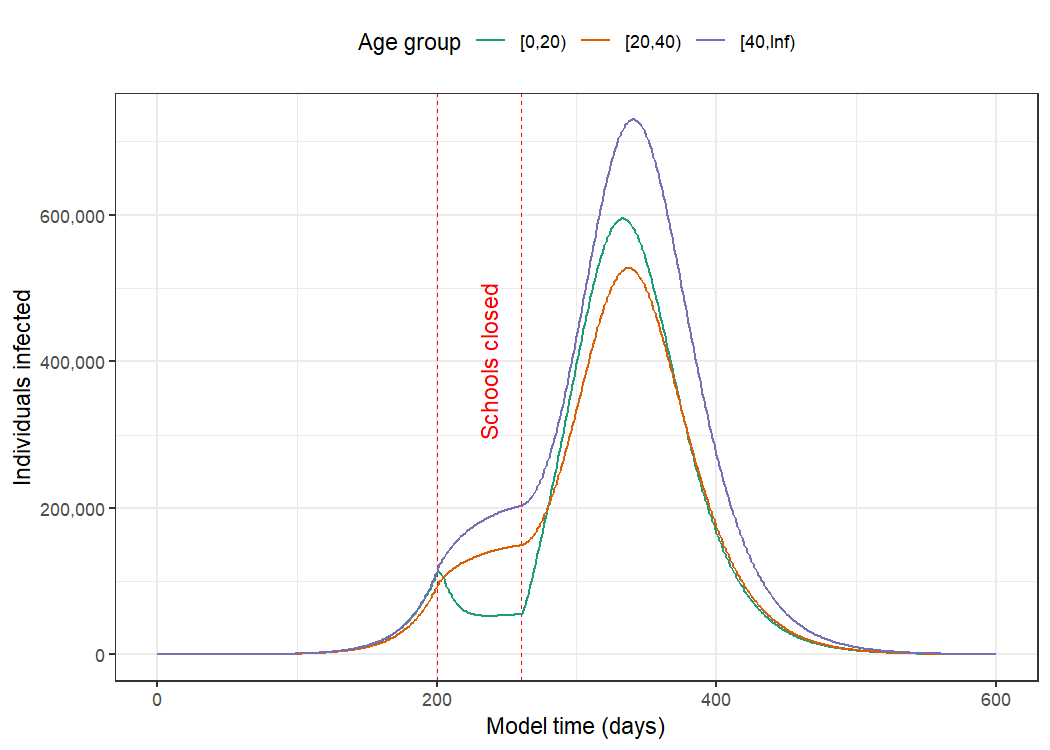
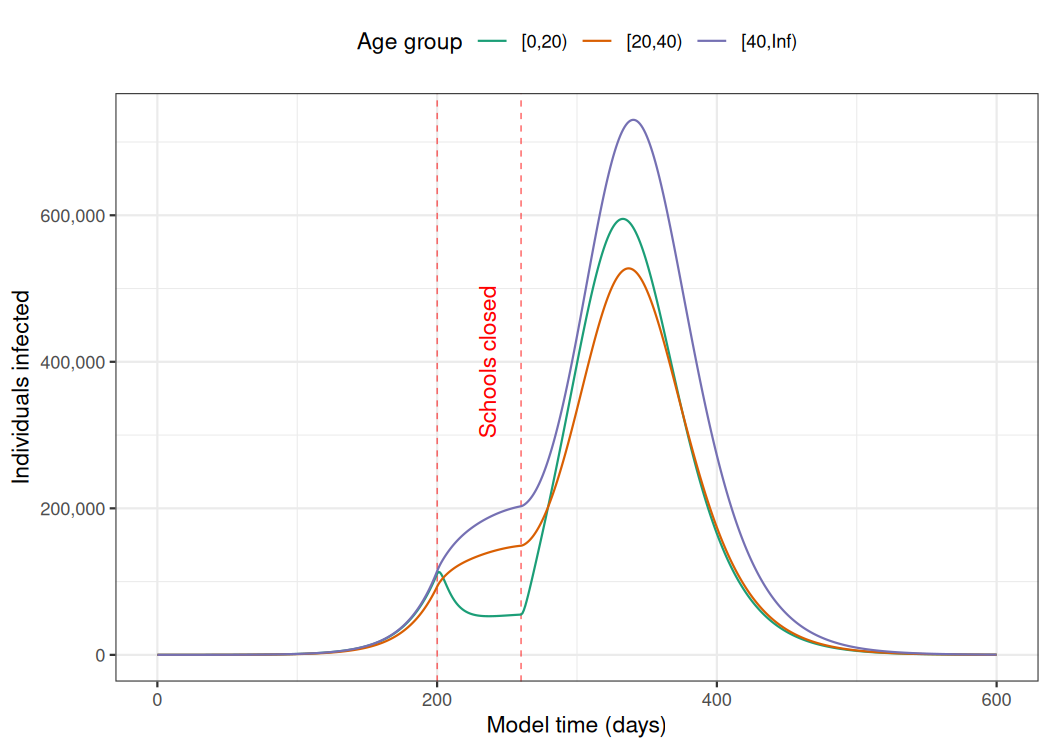
Automatic readme update

diff --git a/README.md b/README.md
@@ -1,35 +1,35 @@
 
-# {{ packagename }}: Composable epidemic scenario modelling <img src="man/figures/logo.svg" align="right" width="130"/>
+# epidemics: Composable epidemic scenario modelling <img src="man/figures/logo.svg" align="right" width="130"/>
 
 <!-- badges: start -->
 
 [![License:
 MIT](https://img.shields.io/badge/License-MIT-blue.svg)](https://opensource.org/license/mit/)
-[![R-CMD-check](https://github.com/%7B%7B%20gh_repo%20%7D%7D/actions/workflows/R-CMD-check.yaml/badge.svg)](https://github.com/%7B%7B%20gh_repo%20%7D%7D/actions/workflows/R-CMD-check.yaml)
+[![R-CMD-check](https://github.com/epiverse-trace/epidemics/actions/workflows/R-CMD-check.yaml/badge.svg)](https://github.com/epiverse-trace/epidemics/actions/workflows/R-CMD-check.yaml)
 [![Codecov test
-coverage](https://codecov.io/gh/%7B%7B%20gh_repo%20%7D%7D/branch/main/graph/badge.svg)](https://app.codecov.io/gh/%7B%7B%20gh_repo%20%7D%7D?branch=main)
+coverage](https://codecov.io/gh/epiverse-trace/epidemics/branch/main/graph/badge.svg)](https://app.codecov.io/gh/epiverse-trace/epidemics?branch=main)
 [![Project Status: WIP – Initial development is in progress, but there
 has not yet been a stable, usable release suitable for the
 public.](https://www.repostatus.org/badges/latest/wip.svg)](https://www.repostatus.org/#wip)
 [![CRAN
-status](https://www.r-pkg.org/badges/version/%7B%7B%20packagename%20%7D%7D)](https://CRAN.R-project.org/package=%7B%7B%20packagename%20%7D%7D)
+status](https://www.r-pkg.org/badges/version/epidemics)](https://CRAN.R-project.org/package=epidemics)
 <!-- badges: end -->
 
-*{{ packagename }}* is an R package that provides modular
-representations of populations and public health response measures,
-allowing them to be combined with epidemiological model structures
-curated from the published literature, to conveniently compose and
-compare epidemic scenario models.
+*epidemics* is an R package that provides modular representations of
+populations and public health response measures, allowing them to be
+combined with epidemiological model structures curated from the
+published literature, to conveniently compose and compare epidemic
+scenario models.
 
-The models in *{{ packagename }}* focus on directly transmitted
-infections, and implement methods outlined in Bjørnstad et al.
+The models in *epidemics* focus on directly transmitted infections, and
+implement methods outlined in Bjørnstad et al.
 ([2020a](#ref-bjornstad2020a)) and Bjørnstad et al.
-([2020b](#ref-bjornstad2020)). The models in *{{ packagename }}* can
-help provide rough estimates of the course of epidemics, and the
+([2020b](#ref-bjornstad2020)). The models in *epidemics* can help
+provide rough estimates of the course of epidemics, and the
 effectiveness of pharmaceutical and non-pharmaceutical interventions.
 
-*{{ packagename }}* relies on [Eigen](https://gitlab.com/libeigen/eigen)
-via [{RcppEigen}](https://cran.r-project.org/package=RcppEigen), and on
+*epidemics* relies on [Eigen](https://gitlab.com/libeigen/eigen) via
+[{RcppEigen}](https://cran.r-project.org/package=RcppEigen), and on
 [Boost
 Odeint](https://www.boost.org/doc/libs/1_82_0/libs/numeric/odeint/doc/html/index.html)
 via [{BH}](https://cran.r-project.org/package=BH), and is developed at
@@ -40,12 +40,12 @@ at the London School of Hygiene and Tropical Medicine as part of the
 
 ## Installation
 
-The current development version of *{{ packagename }}* can be installed
-from [GitHub](https://github.com/) using the *pak* package.
+The current development version of *epidemics* can be installed from
+[GitHub](https://github.com/) using the *pak* package.
 
 ``` r
 if(!require("pak")) install.packages("pak")
-pak::pkg_install("{{ gh_repo }}")
+pak::pkg_install("epiverse-trace/epidemics")
 ```
 
 Alternatively, install pre-compiled binaries from [the Epiverse TRACE
@@ -72,9 +72,9 @@ install.packages("epidemics", repos = c("https://epiverse-trace.r-universe.dev",
 
 ## Quick start
 
-Here we show an example of using the default model in *{{ packagename
-}}* to model an epidemic in the U.K. population with an $R_0$ similar to
-that of pandemic influenza, with heterogeneity in social contacts among
+Here we show an example of using the default model in *epidemics* to
+model an epidemic in the U.K. population with an $R_0$ similar to that
+of pandemic influenza, with heterogeneity in social contacts among
 different age groups, and with the implementation of school closures to
 dampen the spread of the infection.
 
@@ -202,14 +202,14 @@ individuals.
 
 ## Package vignettes
 
-More details on how to use *{{ packagename }}* can be found in the
-[online documentation as package
-vignettes](https://epiverse-trace.github.io/%7B%7B%20packagename%20%7D%7D/),
-under “Articles”.
+More details on how to use *epidemics* can be found in the [online
+documentation as package
+vignettes](https://epiverse-trace.github.io/epidemics/), under
+“Articles”.
 
 ## Package models
 
-*{{ packagename }}* provides a convenient interface to a library of
+*epidemics* provides a convenient interface to a library of
 compartmental models that can help to model epidemic scenarios for
 directly transmitted respiratory infections such as influenza or
 Covid-19 as well haemorrhagic fevers such as Ebola virus disease:
@@ -239,10 +239,9 @@ Covid-19 as well haemorrhagic fevers such as Ebola virus disease:
     ([2019](#ref-finger2019)).
 
 More models are planned to be added in the near future. Please get in
-touch if you would like to see your model added to the *{{ packagename
-}}* model library — we are happy to help with translating it into our
-framework, with a special focus on making the model applicable to LMIC
-settings.
+touch if you would like to see your model added to the *epidemics* model
+library — we are happy to help with translating it into our framework,
+with a special focus on making the model applicable to LMIC settings.
 
 ## Related projects
 
@@ -271,33 +270,30 @@ and the following projects may be useful for building your own models:
 ## Help
 
 To report a bug please open an
-[issue](https://github.com/%7B%7B%20gh_repo%20%7D%7D/issues/new/choose).
+[issue](https://github.com/epiverse-trace/epidemics/issues/new/choose).
 
 ## Contribute
 
-Contributions to *{{ packagename }}* are welcomed via [pull
-requests](https://github.com/%7B%7B%20gh_repo%20%7D%7D/pulls).
+Contributions to *epidemics* are welcomed via [pull
+requests](https://github.com/epiverse-trace/epidemics/pulls).
 
 ## Code of conduct
 
-Please note that the *{{ packagename }}* project is released with a
-[Contributor Code of
+Please note that the *epidemics* project is released with a [Contributor
+Code of
 Conduct](https://github.com/epiverse-trace/.github/blob/main/CODE_OF_CONDUCT.md).
 By contributing to this project, you agree to abide by its terms.
 
 ## References
 
-<div id="refs" class="references csl-bib-body hanging-indent"
-entry-spacing="0">
+<div id="refs" class="references csl-bib-body hanging-indent">
 
 <div id="ref-ainslie2022" class="csl-entry">
 
-Ainslie, Kylie E. C., Jantien A. Backer, Pieter T. de Boer, Albert Jan
-van Hoek, Don Klinkenberg, Hester Korthals Altes, Ka Yin Leung, Hester
-de Melker, Fuminari Miura, and Jacco Wallinga. 2022. “A Scenario
-Modelling Analysis to Anticipate the Impact of COVID-19 Vaccination in
-Adolescents and Children on Disease Outcomes in the Netherlands, Summer
-2021.” *Eurosurveillance* 27 (44): 2101090.
+Ainslie, Kylie E. C., Jantien A. Backer, Pieter T. de Boer, et al. 2022.
+“A Scenario Modelling Analysis to Anticipate the Impact of COVID-19
+Vaccination in Adolescents and Children on Disease Outcomes in the
+Netherlands, Summer 2021.” *Eurosurveillance* 27 (44): 2101090.
 <https://doi.org/10.2807/1560-7917.ES.2022.27.44.2101090>.
 
 </div>
@@ -305,15 +301,16 @@ Adolescents and Children on Disease Outcomes in the Netherlands, Summer
 <div id="ref-bjornstad2020a" class="csl-entry">
 
 Bjørnstad, Ottar N., Katriona Shea, Martin Krzywinski, and Naomi Altman.
-2020a. “Modeling Infectious Epidemics.” *Nature Methods* 17 (5): 455–56.
+2020a. “Modeling Infectious Epidemics.” *Nature Methods* 17 (5): 5.
 <https://doi.org/10.1038/s41592-020-0822-z>.
 
 </div>
 
 <div id="ref-bjornstad2020" class="csl-entry">
 
-———. 2020b. “The SEIRS Model for Infectious Disease Dynamics.” *Nature
-Methods* 17 (6): 557–58. <https://doi.org/10.1038/s41592-020-0856-2>.
+Bjørnstad, Ottar N., Katriona Shea, Martin Krzywinski, and Naomi Altman.
+2020b. “The SEIRS Model for Infectious Disease Dynamics.” *Nature
+Methods* 17 (6): 6. <https://doi.org/10.1038/s41592-020-0856-2>.
 
 </div>
 
@@ -337,12 +334,11 @@ Analogs of Erlang Epidemic Models.” *Journal of Biological Dynamics* 12
 
 <div id="ref-li2019" class="csl-entry">
 
-Li, Shou-Li, Matthew J. Ferrari, Ottar N. Bjørnstad, Michael C. Runge,
-Christopher J. Fonnesbeck, Michael J. Tildesley, David Pannell, and
-Katriona Shea. 2019. “Concurrent Assessment of Epidemiological and
-Operational Uncertainties for Optimal Outbreak Control: Ebola as a Case
-Study.” *Proceedings of the Royal Society B: Biological Sciences* 286
-(1905): 20190774. <https://doi.org/10.1098/rspb.2019.0774>.
+Li, Shou-Li, Matthew J. Ferrari, Ottar N. Bjørnstad, et al. 2019.
+“Concurrent Assessment of Epidemiological and Operational Uncertainties
+for Optimal Outbreak Control: Ebola as a Case Study.” *Proceedings of
+the Royal Society B: Biological Sciences* 286 (1905): 20190774.
+<https://doi.org/10.1098/rspb.2019.0774>.
 
 </div>
 